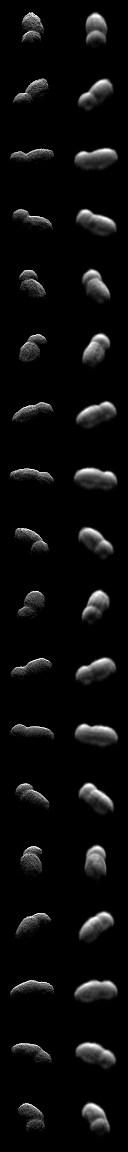
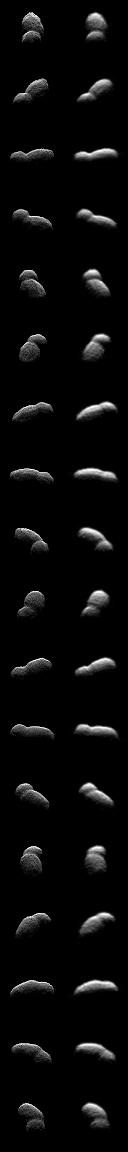
加入cos2，暂存版

diff --git a/models/isar_renderer.py b/models/isar_renderer.py
@@ -319,16 +319,43 @@ class ISARRenderer:
         n_samples = range_vals.shape[0]
         points = ray_bases[:, None, :] + range_vals[None, :, None] * ray_dir[None, None, :]
         points_flat = points.reshape(-1, 3)
+        points_flat.requires_grad_(True)
         density, intensity, field_aux = nerf_network.density_intensity(
             points_flat,
-            use_learned_intensity=use_learned_intensity,
+            use_learned_intensity=False,
             return_aux=True
         )
+
+        surface_sdf = field_aux.get('surface_sdf')
+        if surface_sdf is None:
+            raise RuntimeError(
+                'Incidence-angle backscatter requires NeRF density_mode=ellipsoid_sdf_residual'
+            )
+        gradients = torch.autograd.grad(
+            outputs=surface_sdf,
+            inputs=points_flat,
+            grad_outputs=torch.ones_like(surface_sdf),
+            create_graph=True,
+            retain_graph=True,
+            only_inputs=True
+        )[0]
+        normals = F.normalize(gradients, dim=-1).reshape(n_rays, n_samples, 3)
+        los = _meta_vector(frame_meta, 'radar_los').to(
+            device=points_flat.device,
+            dtype=points_flat.dtype
+        )
+        los = F.normalize(los, dim=0)
+        incidence_cos = torch.clamp(
+            torch.sum(normals * los[None, None, :], dim=-1, keepdim=True),
+            min=0.0
+        )
+        scatter = incidence_cos ** 2
+
         density = density.reshape(n_rays, n_samples, 1)
         intensity = intensity.reshape(n_rays, n_samples, 1)
         dists = self.compute_range_dists(range_vals[None, :].expand(n_rays, -1))
         alpha, weights = self.compute_nerf_weights(density, dists)
-        point_weight = weights * intensity * ray_area
+        point_weight = weights * scatter * ray_area
 
         range_bin, azimuth_bin, range_coord, azimuth_coord = self.project_points(points_flat, frame_meta)
         point_weight_flat = point_weight.reshape(-1)
@@ -343,8 +370,11 @@ class ISARRenderer:
             'image': image,
             'density': density.reshape(-1, 1),
             'intensity': intensity.reshape(-1, 1),
-            'surface_sdf': field_aux.get('surface_sdf'),
+            'surface_sdf': surface_sdf,
             'sdf_residual': field_aux.get('sdf_residual'),
+            'gradients': gradients,
+            'normals': normals.reshape(-1, 3),
+            'scatter': scatter.reshape(-1, 1),
             'points': points_flat,
             'point_weight': point_weight.reshape(-1, 1),
             'range_bin': range_bin,

diff --git a/scripts/inspect_mesh.py b/scripts/inspect_mesh.py
@@ -1,7 +1,7 @@
 import trimesh
 import numpy as np
 import os
-p = os.path.join('exp','1999JV6','meshes','mesh_000000.ply')
+p = os.path.join('exp','1999JV6','meshes','mesh_001000.ply')
 mesh = trimesh.load(p)
 verts = np.asarray(mesh.vertices)
 print('path:', p)